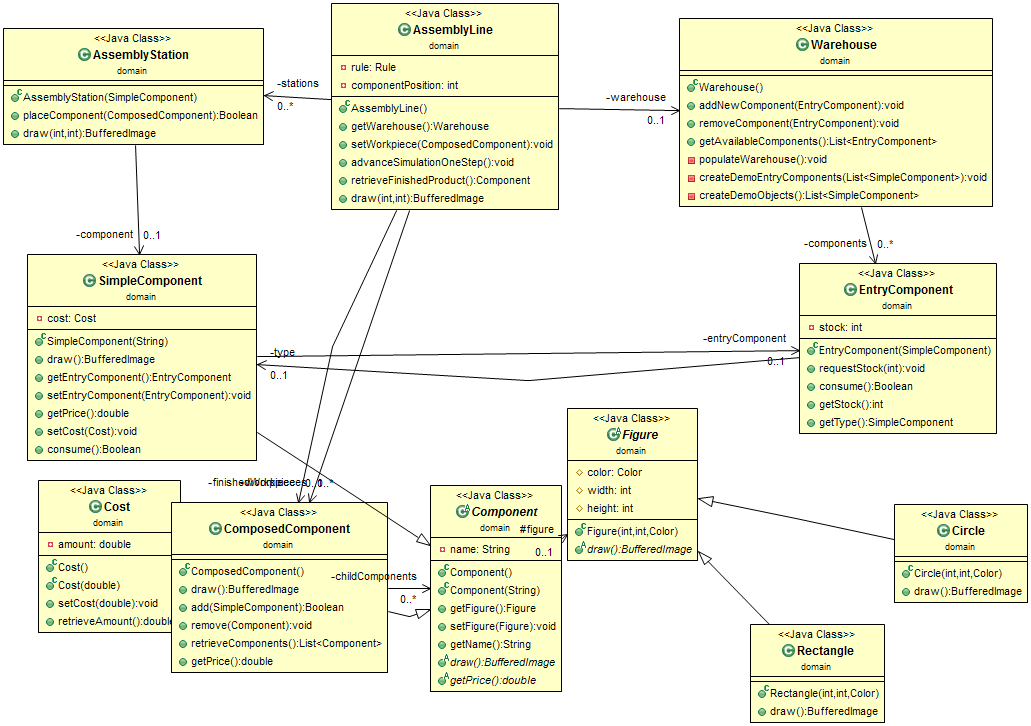
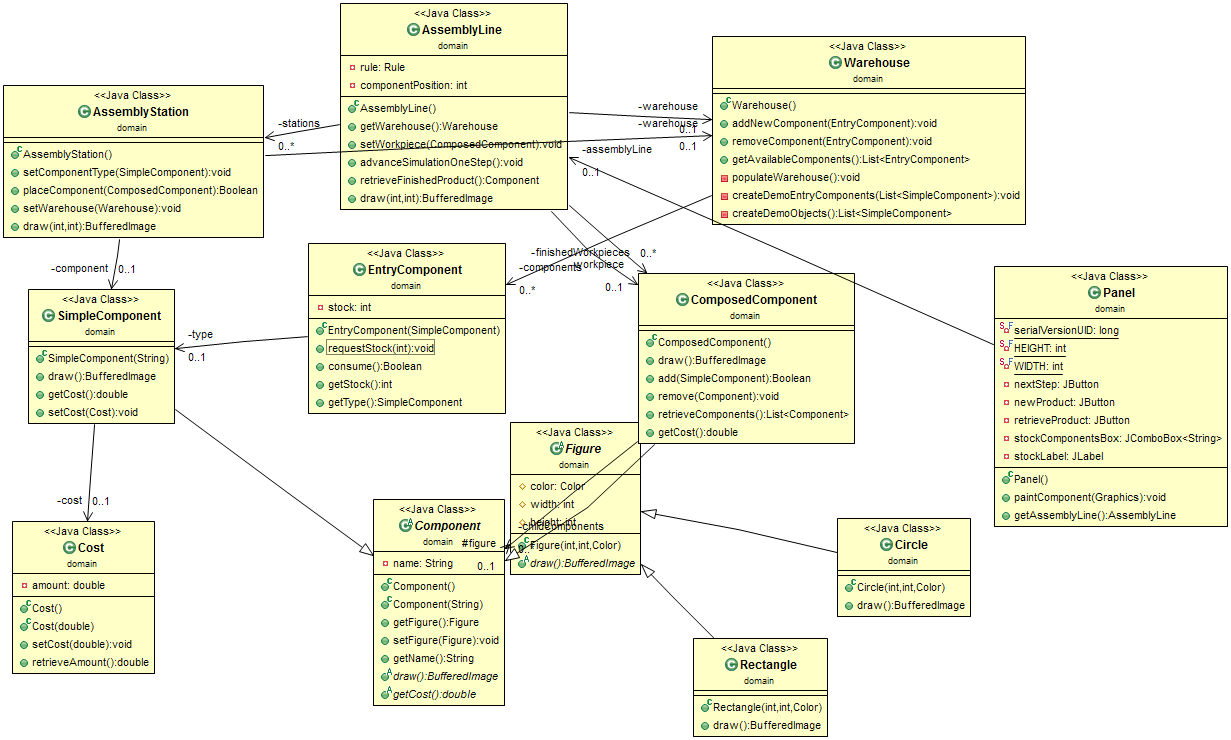
AssemblyStation consume the stock

diff --git a/AssemblyLine/src/domain/AssemblyStation.java b/AssemblyLine/src/domain/AssemblyStation.java
@@ -3,10 +3,13 @@ package domain;
 import java.awt.FontMetrics;
 import java.awt.Graphics2D;
 import java.awt.image.BufferedImage;
+import java.util.ArrayList;
+import java.util.List;
 
 public class AssemblyStation  {
 	private SimpleComponent component;
-	//private EntryComponent entryComponent;
+	private Warehouse warehouse;
+	
 	public AssemblyStation() {
 			
 	}
@@ -16,9 +19,30 @@ public class AssemblyStation  {
 	}
 	
 	public Boolean placeComponent(ComposedComponent p) {
-		return p.add(component);
+		 List<EntryComponent> components=new ArrayList<EntryComponent>();
+		 components= warehouse.getAvailableComponents();
+		 boolean ComponentExists=false;
+		 
+		for (EntryComponent entryComponent : components) {
+			
+			if(entryComponent.getType().equals(component)){
+				ComponentExists=entryComponent.consume();
+				
+			}
+			
+		}
+		if (ComponentExists){
+			p.add(component);
+			
+		}
+		
+		return ComponentExists;
 		
 		
+	}
+	
+	public void setWarehouse(Warehouse c) {
+		warehouse = c;	
 	}
 	
 	public BufferedImage draw(int width, int height) {

diff --git a/AssemblyLine/src/domain/SimpleComponent.java b/AssemblyLine/src/domain/SimpleComponent.java
@@ -4,7 +4,7 @@ import java.awt.image.BufferedImage;
 
 public class SimpleComponent extends Component{
 	
-	private EntryComponent entryComponent;
+	//private EntryComponent entryComponent;
 	private Cost cost;
 
 	public SimpleComponent(String string) {
@@ -20,13 +20,13 @@ public class SimpleComponent extends Component{
 		return figure.draw();
 	}
 
-	public EntryComponent getEntryComponent() {
+	/*public EntryComponent getEntryComponent() {
 		return entryComponent;
-	}
+	}*/
 
-	public void setEntryComponent(EntryComponent entryComponent) {
+	/*public void setEntryComponent(EntryComponent entryComponent) {
 		this.entryComponent = entryComponent;
-	}
+	}*/
 	
 	public double getCost() {
 		return cost.retrieveAmount();
@@ -36,12 +36,12 @@ public class SimpleComponent extends Component{
 		this.cost = p;
 	}
 	
-	public Boolean consume() {
+	/*public Boolean consume() {
 		if (entryComponent == null) {
 			return false;
 		}
 		return entryComponent.consume();
-	}
+	}*/
 
 	
 }

diff --git a/AssemblyLine/src/domain/ComposedComponent.java b/AssemblyLine/src/domain/ComposedComponent.java
@@ -39,9 +39,9 @@ public class ComposedComponent extends Component {
 
     //Adds the component to the composition.
     public Boolean add(SimpleComponent component) {
-    	if (!component.consume()) {
+    	/*if (!component.consume()) {
     		return false;
-    	}
+    	}*/
     	childComponents.add(component);
     	return true;
     }

diff --git a/AssemblyLine/src/domain/AssemblyLine.java b/AssemblyLine/src/domain/AssemblyLine.java
@@ -33,9 +33,12 @@ public class AssemblyLine {
 		
 		this.rule = rulesDialog.getRule();
 		
+		
+		
+		
 		for (int i=0; i<rule.size(); i++) {
 			AssemblyStation station = new AssemblyStation();
-			
+			station.setWarehouse(warehouse);
 			station.setComponentType (rule.getComponentAt(i));
 			
 			stations.add(station);

diff --git a/AssemblyLine/src/domain/Warehouse.java b/AssemblyLine/src/domain/Warehouse.java
@@ -34,7 +34,7 @@ public class Warehouse {
 		for (SimpleComponent component : availableComponents) {
 			EntryComponent entry = new EntryComponent(component);
 			entry.requestStock(5);
-			component.setEntryComponent(entry);
+			//component.setEntryComponent(entry);
 			addNewComponent(entry);
 		}
 	}
